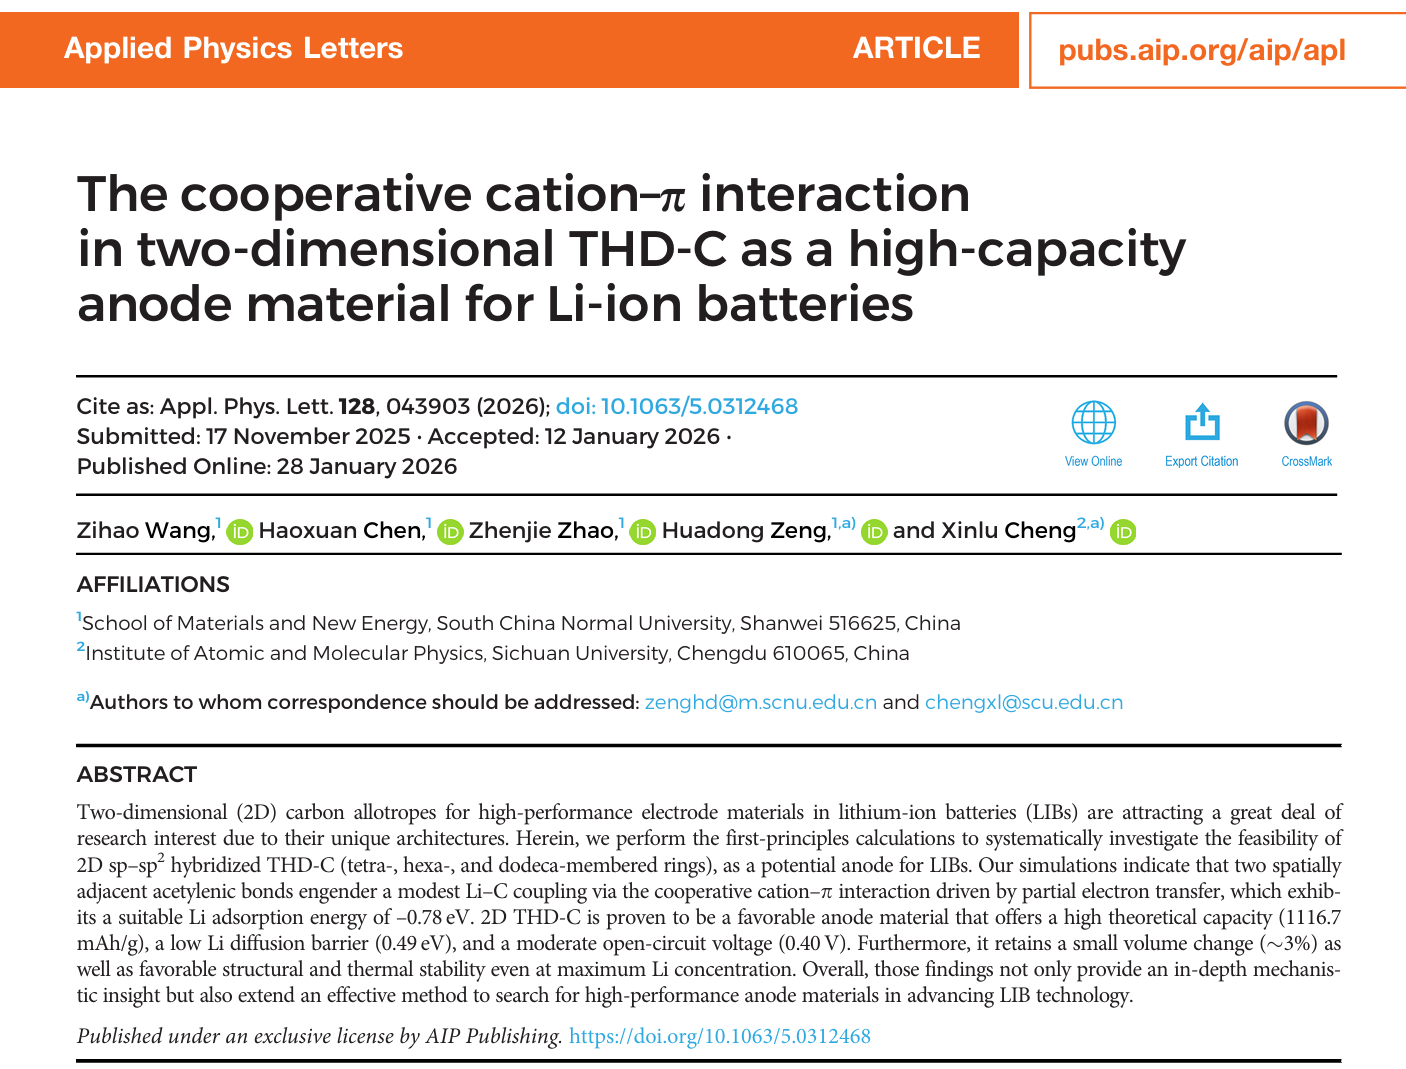
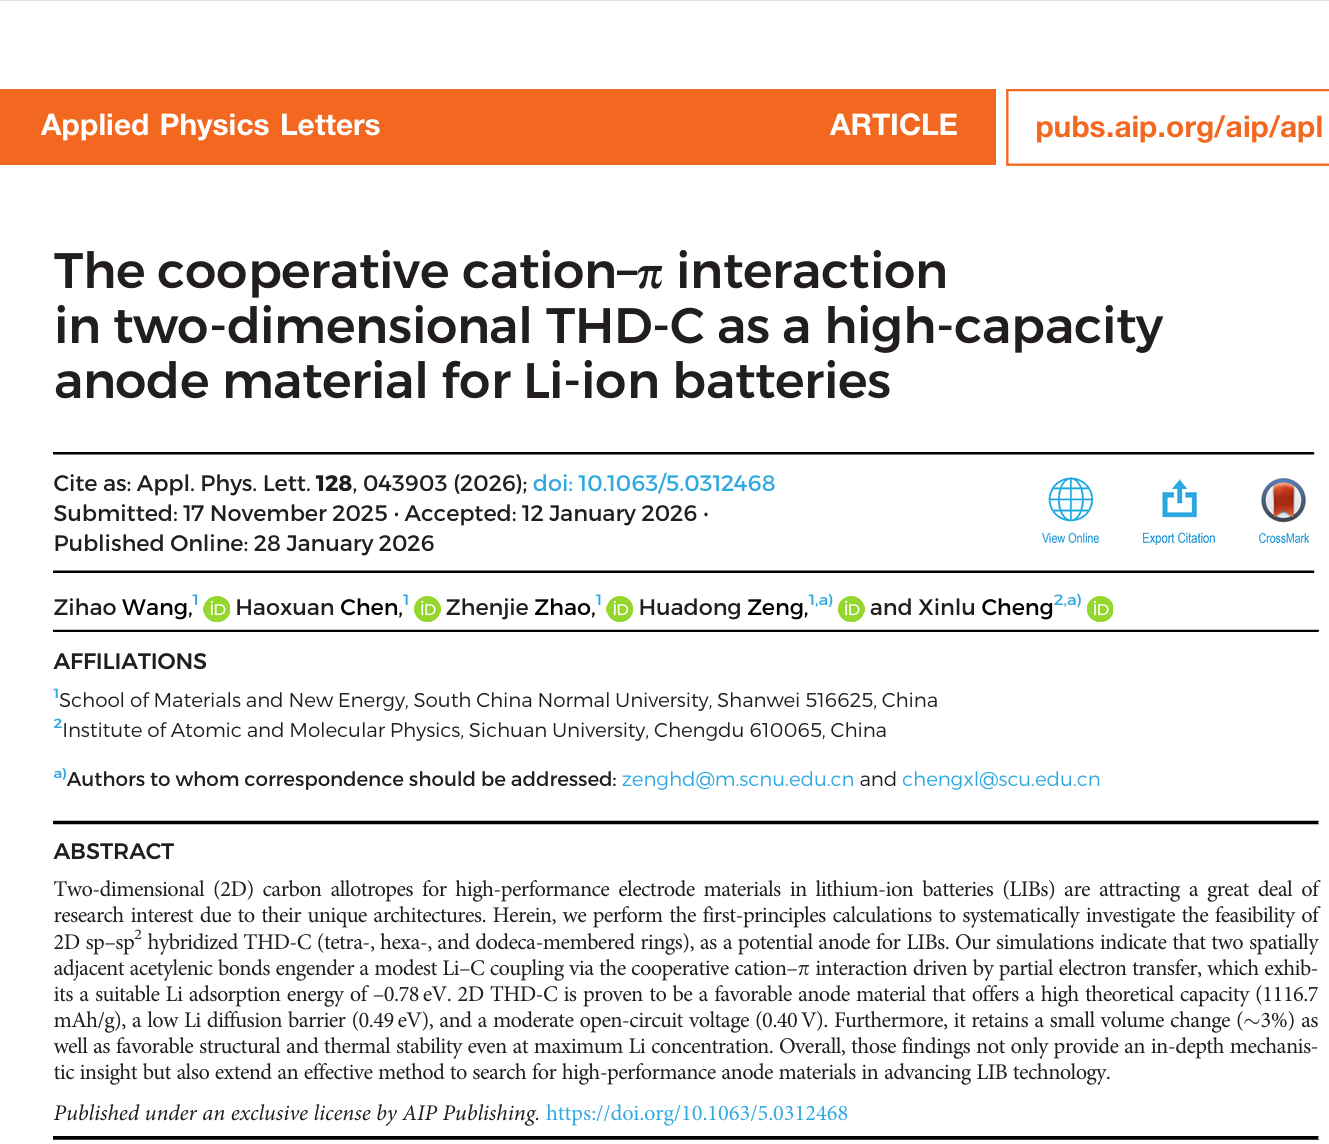
v6.2

diff --git a/_lab_news/2024-05-23-cpl-papers-chen.md b/_lab_news/2024-05-23-cpl-papers-chen.md
@@ -1,0 +1,28 @@
+---
+title: "Undergraduates Houru Chen and Zilin Chen Publish First-Author Papers in Chemical Physics Letters"
+date: 2024-05-23
+summary: "2021-level Materials Physics undergraduates Houru Chen and Zilin Chen published first-author SCI papers in Chemical Physics Letters on functionalized black phosphorus and gas sensing."
+cover: lab/news/2024-05-23-cpl-paper/cover.jpg
+gallery:
+  - src: lab/news/2024-05-23-cpl-paper/cpl-paper-1.jpg
+    caption: "Chemical Physics Letters paper on strain engineering of Sc-decorated black phosphorus."
+  - src: lab/news/2024-05-23-cpl-paper/cpl-paper-2.jpg
+    caption: "Chemical Physics Letters paper on uniaxial strain engineering of phenyl-functionalized black phosphorus."
+tags: [publication, undergraduate-research, black-phosphorus, strain-engineering, gas-sensing, dft]
+---
+
+2021-level Materials Physics undergraduate students **Houru Chen** and **Zilin Chen** from the School of Materials and New Energy, South China Normal University (SCNU), have published research articles as first authors in the international SCI journal ***Chemical Physics Letters*** (JCR Q2, IF = 2.8).
+
+## 1. Strain Engineering & Gas-Sensing Properties of Sc-Decorated Black Phosphorus
+
+Undergraduate **Houru Chen** and **Longying Wen** co-authored the paper titled *"Theoretical insights into the structural, electronic and gas-sensing properties of Sc-decorated black phosphorus via strain engineering"*.
+
+- **Key Findings**: Using first-principles DFT calculations, the team investigated the adsorption and sensing behavior of Sc-decorated black phosphorus (SP) towards toxic nitric oxide (NO) gas. Applied strain induces a semiconductor-to-metal transition in SP, enhancing NO adsorption energy to -2.92 eV (a 3.3-fold increase in sensitivity compared to pristine BP). Strain engineering was further demonstrated as an effective knob to facilitate gas desorption.
+- **Affiliations**: SCNU is the primary affiliation, with Sichuan Police College as the collaborating institution. **Prof. Huadong Zeng** (SCNU) and **Vice Prof. Hao Jiang** (Sichuan Police College) served as co-corresponding authors.
+
+## 2. Optoelectronic Tuning of Phenyl-Functionalized Black Phosphorus
+
+Undergraduate **Zilin Chen** published as sole first author the paper titled *"Uniaxial strain engineering of the electronic and optical properties of phenyl-functionalized black phosphorus"*.
+
+- **Key Findings**: The study demonstrated that uniaxial strain modulates the band structure and optical absorption of phenyl-functionalized black phosphorus (phenyl-BP). Under 4% tensile strain along the armchair direction, phenyl-BP retains a p-type semiconductor state with a 0.60 eV bandgap, while compressive strain significantly boosts UV absorption around 14 eV, providing theoretical guidance for optoelectronic device design.
+- **Affiliations**: SCNU is the sole author affiliation for this work, with **Prof. Huadong Zeng** as the corresponding author.

diff --git a/_lab_news/2026-03-04-apl-paper-wang.md b/_lab_news/2026-03-04-apl-paper-wang.md
@@ -1,0 +1,27 @@
+---
+title: "Undergraduate Zihao Wang Publishes First-Author Paper in Applied Physics Letters"
+date: 2026-03-04
+summary: "2023-level undergraduate student Zihao Wang (Energy Storage Science and Engineering) published a first-author paper in Applied Physics Letters on 2D THD-C anode materials for Li-ion batteries."
+cover: lab/news/2026-03-04-apl-paper/cover.jpg
+gallery:
+  - src: lab/news/2026-03-04-apl-paper/apl-paper-header.jpg
+    caption: "Applied Physics Letters article header: 'The cooperative cation-π interaction in two-dimensional THD-C as a high-capacity anode material for Li-ion batteries'."
+tags: [publication, undergraduate-research, lithium-ion-batteries, 2d-materials, dft]
+---
+
+Recently, **Zihao Wang**, a 2023-level undergraduate majoring in Energy Storage Science and Engineering at the School of Materials and New Energy, South China Normal University (SCNU), published a first-author research paper titled *"The cooperative cation-π interaction in two-dimensional THD-C as a high-capacity anode material for Li-ion batteries"* in the Nature Index journal ***Applied Physics Letters*** (JCR Q2, IF = 3.6).
+
+South China Normal University is the first affiliation of the paper, with Sichuan University as the collaborating institution. The co-corresponding authors are **Prof. Huadong Zeng** (School of Materials and New Energy, SCNU) and **Prof. Xinlu Cheng** (Sichuan University).
+
+## Research Highlights
+
+Based on first-principles density functional theory (DFT) calculations, the study systematically evaluates the feasibility of two-dimensional sp–sp² hybridized THD-C carbon allotrope as an anode material for lithium-ion batteries:
+
+- **Core Mechanism**: Uncovers the fundamental interaction mechanism where spatially adjacent acetylenic bonds induce Li-C coupling through cooperative cation-π interactions driven by partial electron transfer.
+- **Battery Performance**: THD-C exhibits a high theoretical Li storage capacity of **1116.7 mAh/g**, a low Li diffusion barrier of **0.49 eV**, a moderate open-circuit voltage of **0.40 V**, and retains a minimal 3% volume expansion during cycling.
+
+This work provides critical theoretical support for exploring high-performance carbon-based anode materials in next-generation lithium-ion battery technologies.
+
+## Acknowledgments
+
+This research was supported by the National Natural Science Foundation of China (Grant Nos. 11974253, 11774248) and the SCNU Young Faculty Research and Cultivation Project (Grant No. 21KJ10).
